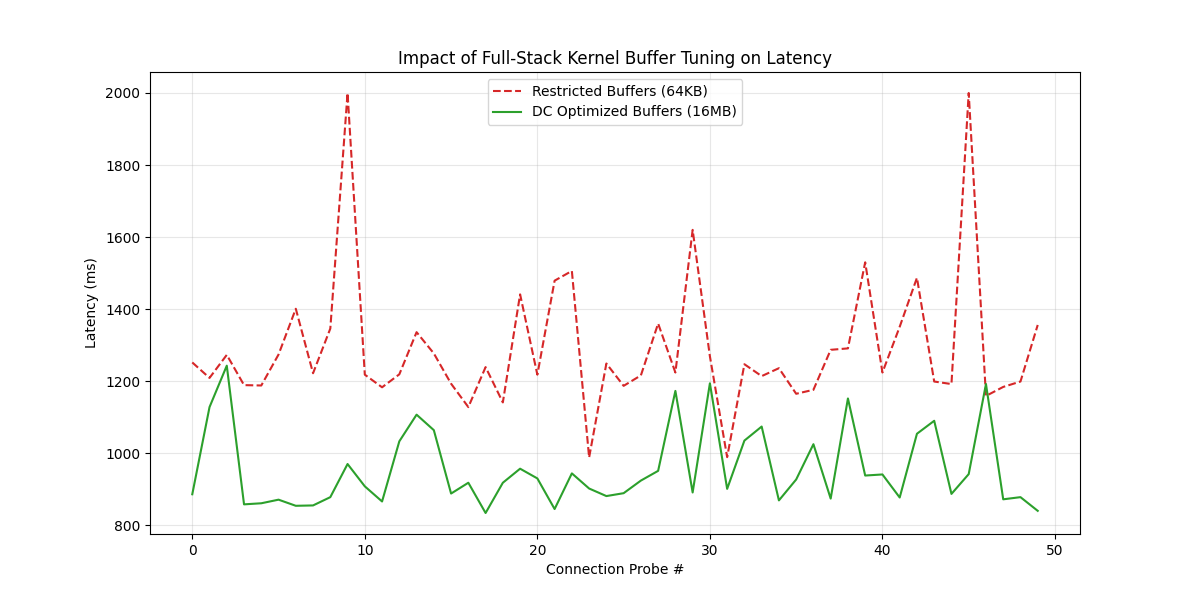
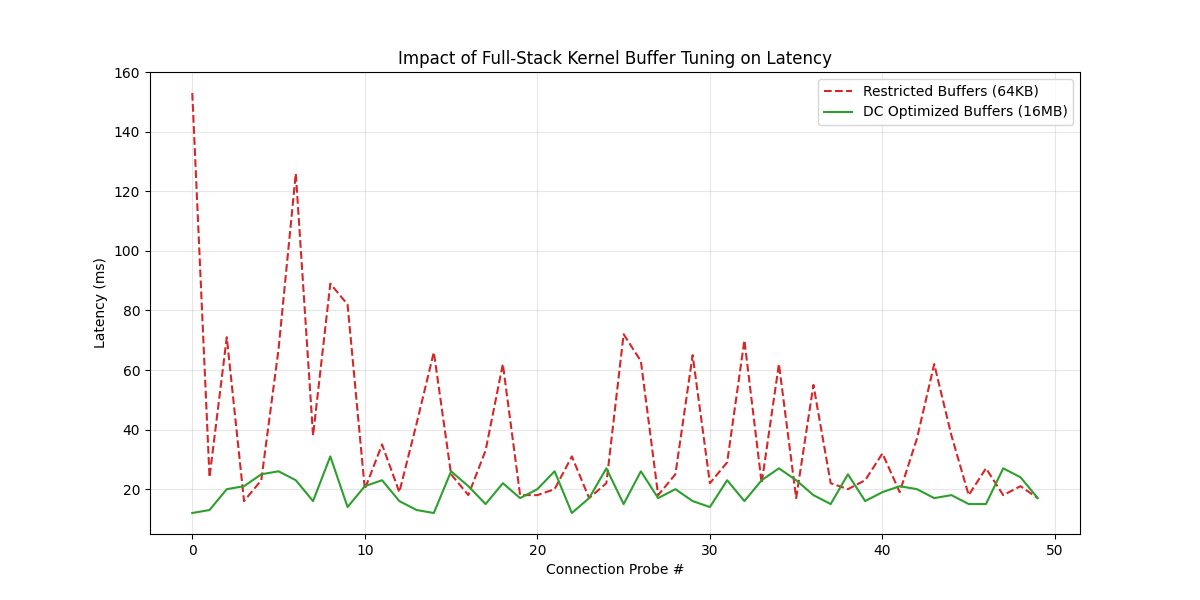
window_scaling enabled

diff --git a/experiemnt.py b/experiemnt.py
@@ -1,12 +1,14 @@
 import subprocess
 import matplotlib.pyplot as plt
+import time
 
 def set_kernel_buffers(size_bytes):
     params = {
         "net.core.rmem_max": size_bytes,
         "net.core.wmem_max": size_bytes,
         "net.ipv4.tcp_rmem": f"4096 87380 {size_bytes}",
-        "net.ipv4.tcp_wmem": f"4096 65536 {size_bytes}"
+        "net.ipv4.tcp_wmem": f"4096 65536 {size_bytes}",
+        "net.ipv4.tcp_window_scaling": 1
     }
     
     for param, value in params.items():
